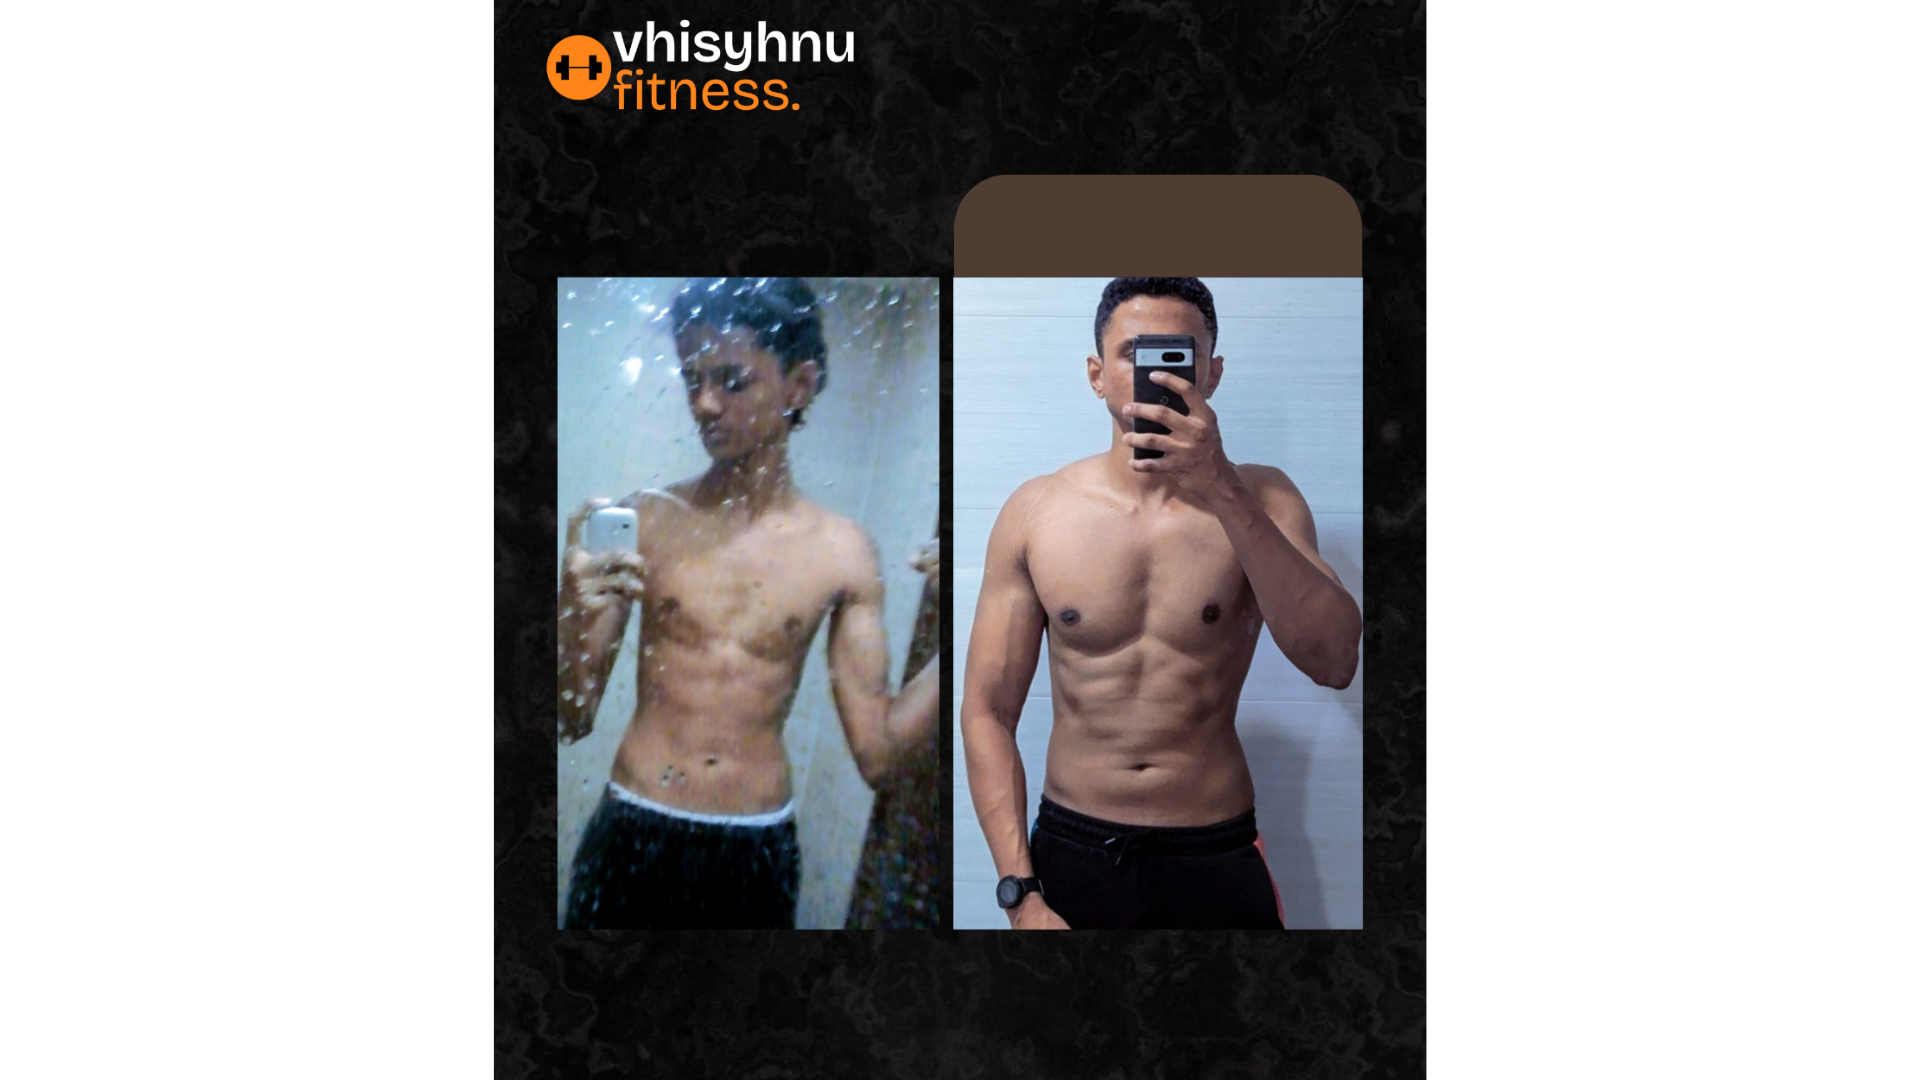
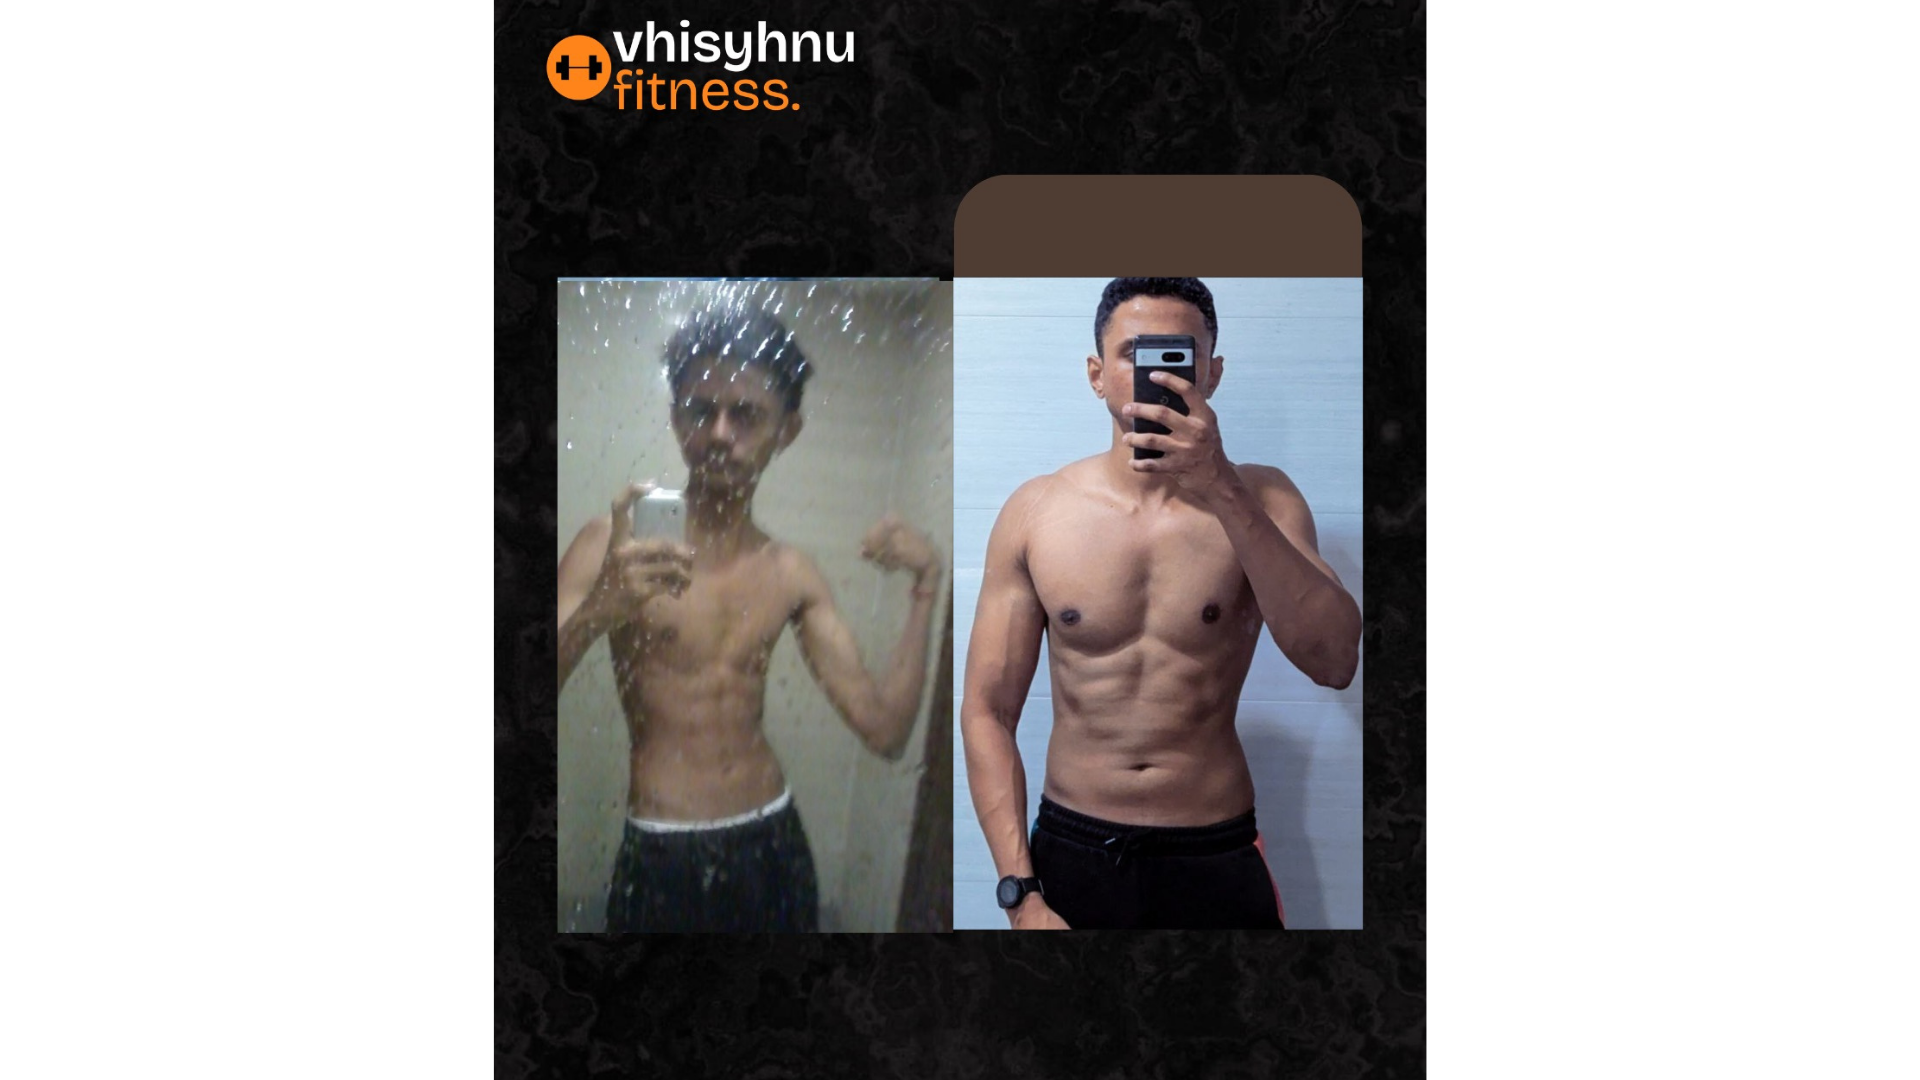
upload new transforamtions for mobile responsive

Changed region(s): [[0.2812, 0.2444, 0.5, 0.8861]]

diff --git a/index.html b/index.html
@@ -769,6 +769,27 @@
             </div>
            </div>
          </div>
+         <div class="noBorder radius0 none c-column c-wrapper col-pRkjfSomJf" id="col-pRkjfSomJf">
+          <div class="vertical inner">
+           <div class="c-image c-wrapper image-bVKVziE4Eg" id="image-bVKVziE4Eg">
+            <div class="image-container cimage-bVKVziE4Eg" style="cursor:default;">
+             <div>
+              <div>
+               <picture class="hl-image-picture" style="display:block;">
+                 <source media="(max-width:900px) and (min-width: 768px)" srcset="assets/images/TransformationGroup4.png"/>
+                 <source media="(max-width:768px) and (min-width: 640px)" srcset="assets/images/TransformationGroup4.png"/>
+                 <source media="(max-width:640px) and (min-width: 480px)" srcset="assets/images/TransformationGroup4.png"/>
+                 <source media="(max-width:480px) and (min-width: 320px)" srcset="assets/images/TransformationGroup4.png"/>
+                 <source media="(max-width:320px)" srcset="assets/images/TransformationGroup4.png"/>
+                <img alt="" class="img-none img-border-none img-effects-none hl-optimized mw-100" data-animation-class="" loading="lazy" src="assets/images/TransformationGroup4.png" style=""/>
+               </picture>
+              </div>
+             </div>
+            </div>
+           </div>
+          </div>
+         </div>
+       </div>
         </div>
         <div class="row-align-center noBorder radius0 none c-row c-wrapper row-UtqtmgRWCP desktop-only" id="row-UtqtmgRWCP">
          <div class="inner">
